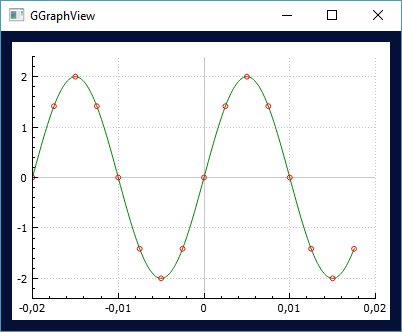
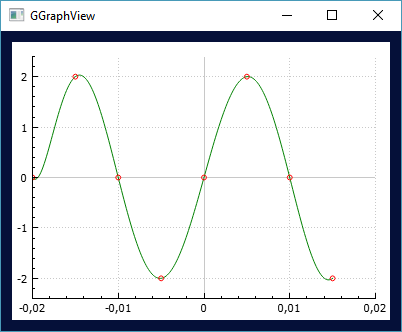
Initial Commit

diff --git a/Interpolation/src/GProcess.cpp b/Interpolation/src/GProcess.cpp
@@ -34,7 +34,7 @@ void GProcess::run() {
 
     GSampling::Instance()->setX(m_x);
     GSampling::Instance()->setY(m_y);
-    GSampling::Instance()->run(4);
+    GSampling::Instance()->run(3);
     QVector<double> m_xSamp = GSampling::Instance()->getX();
     QVector<double> m_ySamp = GSampling::Instance()->getY();
 
@@ -42,6 +42,7 @@ void GProcess::run() {
     GInterPol::Instance()->setY(m_ySamp);
     GInterPol::Instance()->polynomial();
     GInterPol::Instance()->compute();
+    GInterPol::Instance()->coefficient();
     QVector<double> m_xInter = GInterPol::Instance()->getX();
     QVector<double> m_yInter = GInterPol::Instance()->getY();
 
@@ -53,8 +54,6 @@ void GProcess::run() {
 
     GGraphView::Instance()->setColor(QBrush("red"));
     GGraphView::Instance()->setData(m_xSamp, m_ySamp);
-    GGraphView::Instance()->setXRange(m_xMin, m_xMax);
-    GGraphView::Instance()->setYRange(m_yMin, m_yMax);
     GGraphView::Instance()->drawPoint();
 }
 //===============================================

diff --git a/lib/GInterPol.cpp b/lib/GInterPol.cpp
@@ -97,3 +97,18 @@ void GInterPol::polynomial() {
     }
 }
 //===============================================
+void GInterPol::coefficient() {
+    QString m_format = "";
+    m_format += "Coefficients of the Interpolating Polynomial :\n";
+    m_format += "====================================\n";
+    m_format += "y = c0 + c1*x + c2*x^2 + · · · + cN*x^N\n";
+    m_format += "====================================\n";
+
+    for(int i = 0; i < m_Coef.size(); i++) {
+        m_format += QString("c[%1] : %2\n").arg(i).arg(m_Coef[i]);
+    }
+
+    GMessageView::Instance()->showData(m_format);
+}
+//===============================================
+

diff --git a/lib/GInterPol.h b/lib/GInterPol.h
@@ -25,6 +25,7 @@ public:
     void compute();
     double compute(const double &x);
     void polynomial();
+    void coefficient();
 
 private:
     static GInterPol* m_instance;
